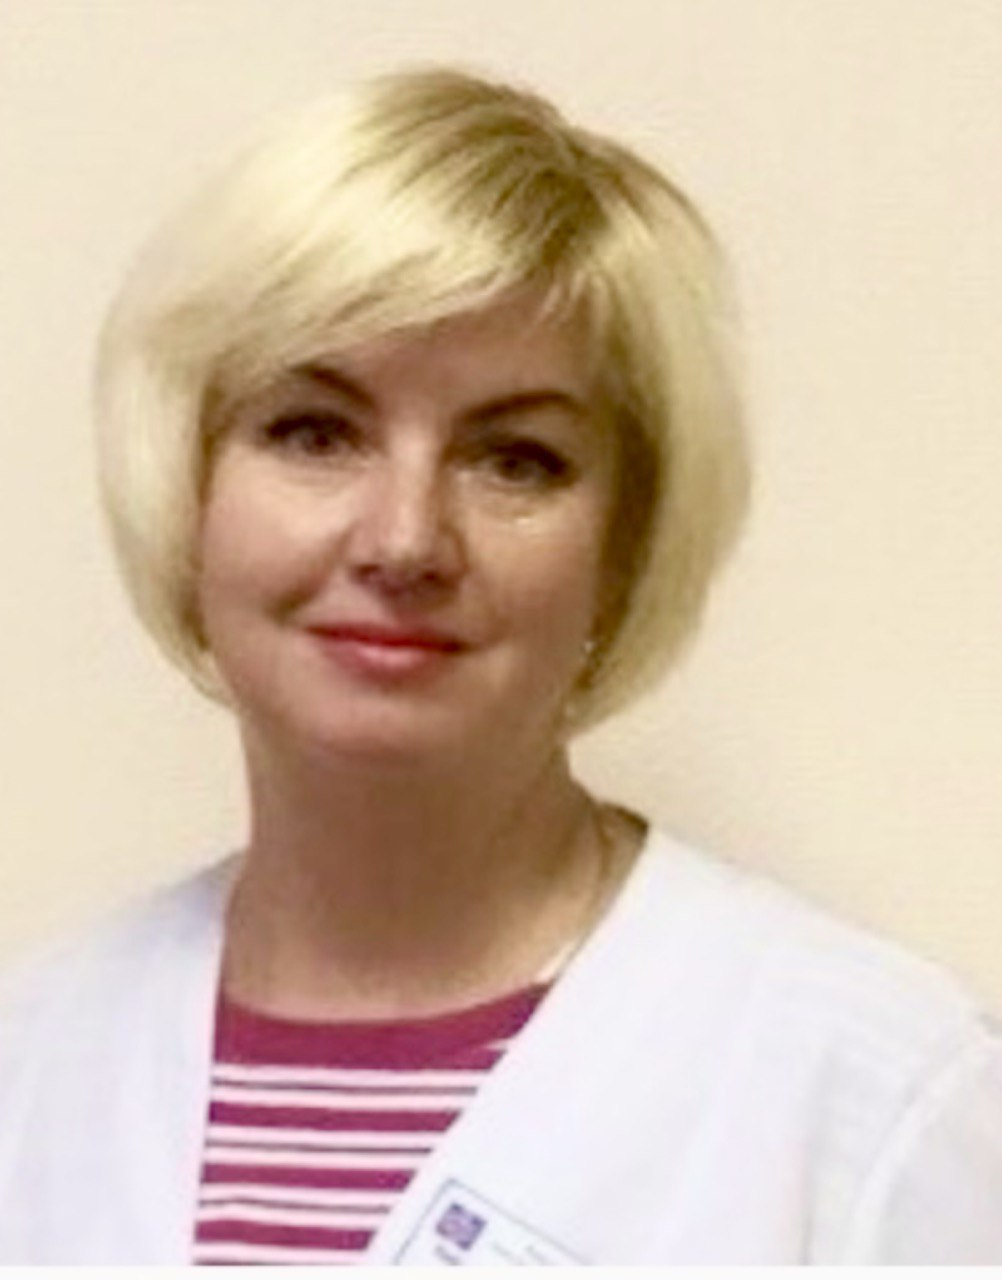
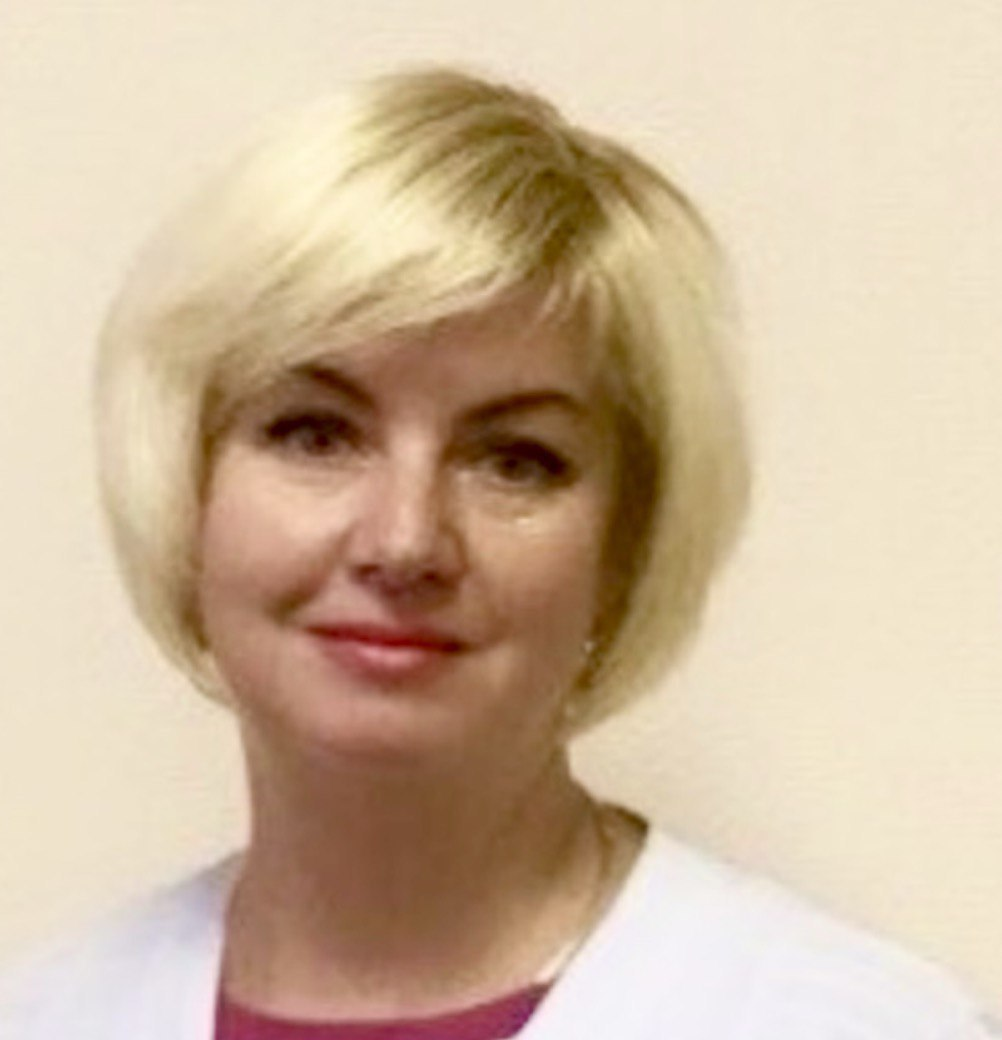
Updeted commit message for recent changes

diff --git a/index.html b/index.html
@@ -96,7 +96,7 @@
       <p>Лікар вищої категорії стоматолог хірург терапевт</p>
       <button class="toggle-btn">Детальніше</button>
       <div class="toggle-content">
-        <p>видалення зубів<br>лікування зубів</p>
+        <p>Видалення зубів<br>Лікування зубів<br>Лікування карієсу<br>Єндодонтичне лікування<br>Лікування пульпіту<br>Реставрація зубів</p>
       </div>
     </div>
     <div class="doctor-card">
@@ -138,7 +138,7 @@
       </div>
     </div>
     <div class="doctor-card">
-      <img src="Images/6.jpg" alt="Лікар">
+      <img src="Images/Doctors/mihaylenko.jpeg" alt="Лікар">
       <h4>Михайленко Олена Петрівна</h4>
       <p>Лікарка першої категорії ультразвукової діагностики</p>
       <button class="toggle-btn">Детальніше</button>
@@ -191,6 +191,7 @@
           <div class="toggle-content">
             <ul>
               <li>Анестезія інфільтраційна.</li>
+              <li>Анестезія аплікаційна.</li>
             </ul>
           </div>
         </li>
@@ -470,7 +471,7 @@
           </div>
         </li>
         <li>
-          <button class="toggle-btn">УЗД ендокринних залоз</button>
+          <button class="toggle-btn">УЗД поверхневих органів</button>
           <div class="toggle-content">
             <ul>
               <li>Ультразвукове дослідження щитовидної залози.</li>
@@ -497,9 +498,10 @@
           <button class="toggle-btn">Акушерське УЗД</button>
           <div class="toggle-content">
             <ul>
-              <li>Ультразвукове дослідження акушерське (до 18 тижнів).</li>
-              <li>Ультразвукове дослідження акушерське (від 18 тижнів).</li>
-              <li>Ультразвукове дослідження акушерське 3 триместр.</li>
+              <li>Ультразвукове дослідження малоготерміну вагітності(до 11 тижня вагітності).</li>
+              <li>Ультразвукове дослідження акушерське (від 11 до 14 тижнів).</li>
+              <li>Ультразвукове дослідження акушерське 2й триместр (від 18 до 22 тижнів).</li>
+              <li>Ультразвукове дослідження акушерське 3й триместр (від 26 тижнів).</li>
             </ul>
           </div>
         </li>
@@ -509,7 +511,6 @@
             <ul>
               <li>Ультразвукове дослідження лімфовузлів.</li>
               <li>Еластографія печінки.</li>
-              <li>Еластографія печінки+УЗД печінки та жовчного міхура.</li>
             </ul>
           </div>
         </li>
@@ -539,6 +540,8 @@
         <img src="Images/workklinic/workklinic6.jpg" alt="Фото 6">
         <img src="Images/workklinic/workklinic7.jpg" alt="Фото 7">
         <img src="Images/workklinic/workklinic9.jpg" alt="Фото 8">
+        <img src="Images/workklinic/worklinic10.jpeg" alt="Фото 10">
+        <img src="Images/workklinic/workklinic11.jpeg" alt="Фото 11">
       </div>
       <!-- Кнопка наступного слайду -->
       <button class="slider-btn next">❯</button>
